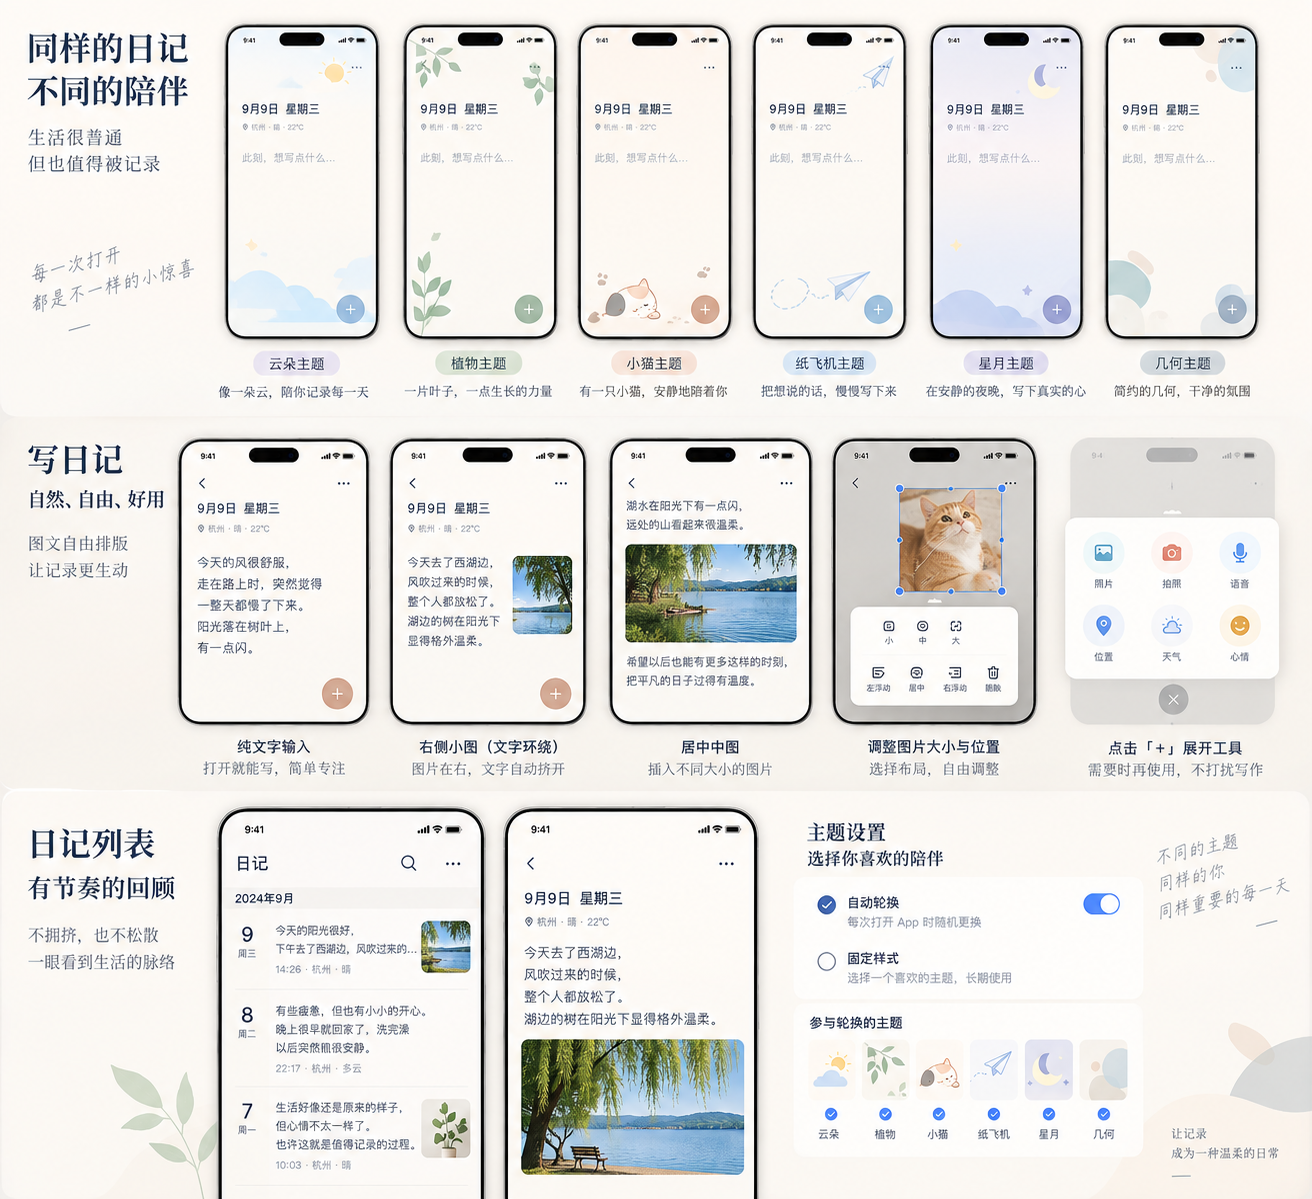
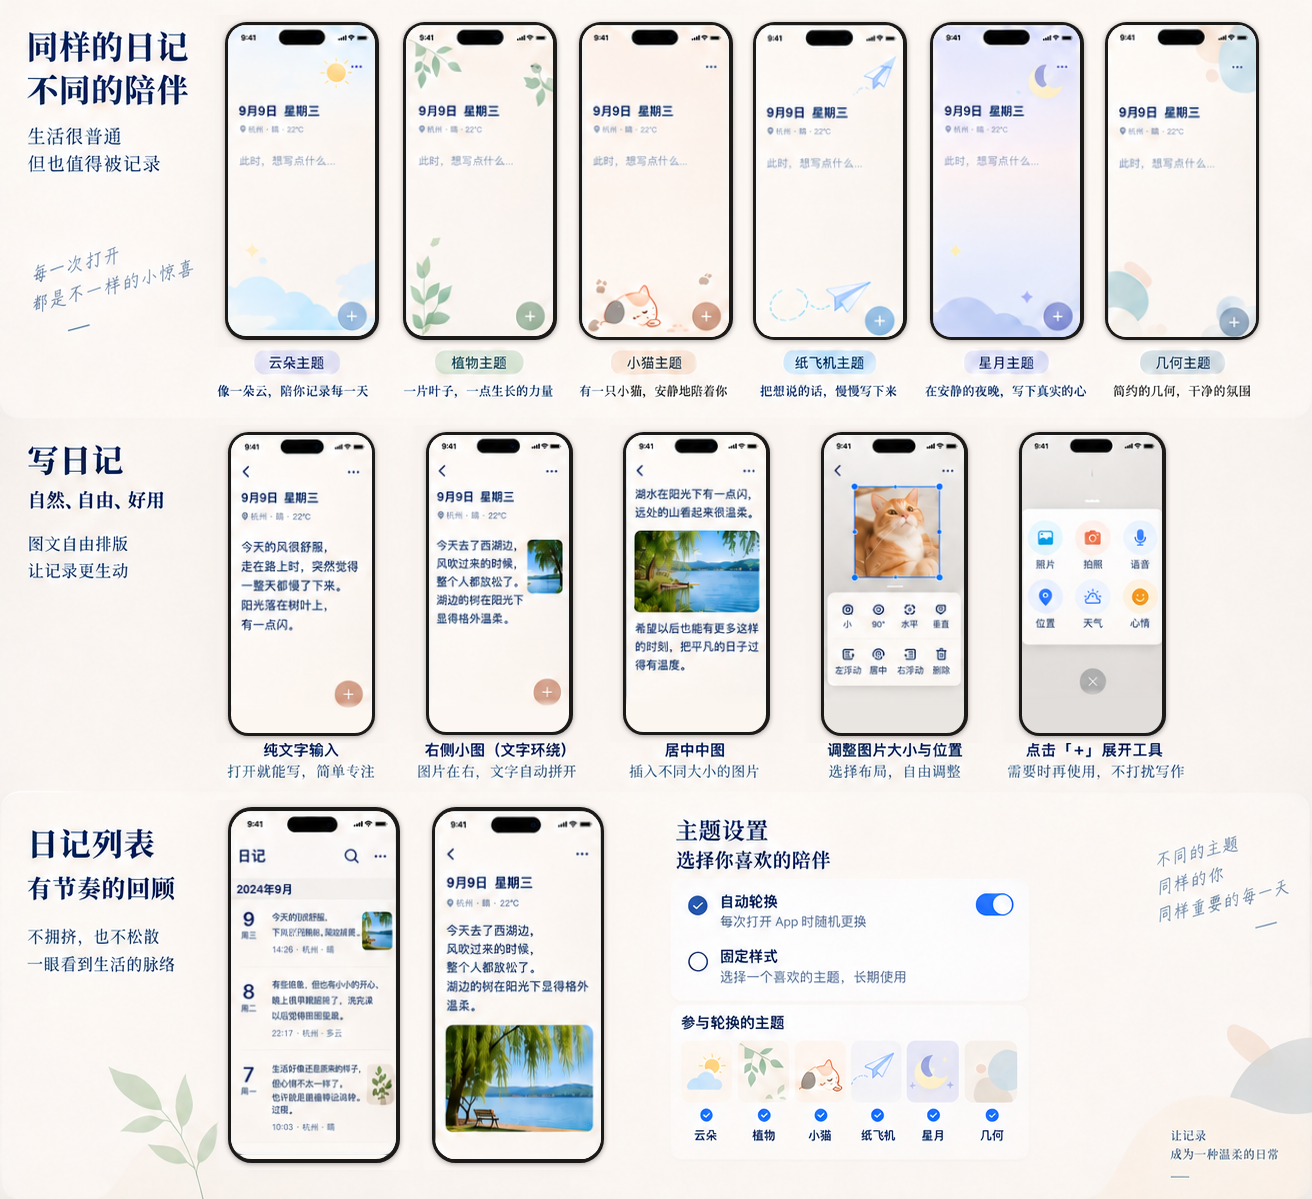
fix: normalize Gentle Diary phone proportions

diff --git a/index.html b/index.html
@@ -47,7 +47,7 @@
             <p>用 Vue 3 和 Capacitor 做的本地优先日记应用。</p>
             <div class="project-links">
               <a href="https://github.com/zengxhzz/gentle-diary" target="_blank" rel="noopener">查看源码 ↗</a>
-              <a href="https://github.com/zengxhzz/gentle-diary/blob/main/%E8%AE%BE%E8%AE%A1%E5%9B%BE.png" target="_blank" rel="noopener">完整设计图 ↗</a>
+              <a href="assets/gentle-diary-design.png" target="_blank" rel="noopener">完整设计图 ↗</a>
             </div>
             <div class="gallery-nav" role="group" aria-label="作品图集">
               <button type="button" data-plate="0" aria-controls="work-gallery" aria-pressed="true">项目概览</button>
@@ -63,11 +63,11 @@
                 <figcaption><strong>项目概览</strong><span>Gentle Diary · 界面设计稿</span></figcaption>
               </figure>
               <figure class="plate plate-writing">
-                <div class="plate-image"><img src="assets/gentle-diary-design.png" alt="Gentle Diary 设计稿中，带有图片和格式工具的写作界面" width="1312" height="1199" fetchpriority="low" decoding="async"></div>
+                <div class="plate-image"><div class="plate-detail"><img src="assets/gentle-diary-design.png" alt="Gentle Diary 设计稿中，带有图片和格式工具的五个写作界面" width="1312" height="1199" fetchpriority="low" decoding="async"></div></div>
                 <figcaption><strong>写作界面</strong><span>草稿编辑、图片排版与工具入口</span></figcaption>
               </figure>
               <figure class="plate plate-themes">
-                <div class="plate-image"><img src="assets/gentle-diary-design.png" alt="Gentle Diary 设计稿中的六个主题样式" width="1312" height="1199" fetchpriority="low" decoding="async"></div>
+                <div class="plate-image"><div class="plate-detail"><img src="assets/gentle-diary-design.png" alt="Gentle Diary 设计稿中的六个主题样式" width="1312" height="1199" fetchpriority="low" decoding="async"></div></div>
                 <figcaption><strong>主题设计</strong><span>同一个写作界面的不同主题</span></figcaption>
               </figure>
             </div>

diff --git a/assets/site.css b/assets/site.css
@@ -80,8 +80,11 @@ main section[id] { scroll-margin-top: var(--nav-height); }
 .plate-image { position: relative; overflow: hidden; height: min(48svh, 540px); border: 1px solid #26292430; background: #e4dfd3; }
 .plate-image img { display: block; width: 100%; height: 100%; object-fit: cover; }
 .plate-overview img { object-position: center 24%; }
-.plate-writing img { object-position: center 61%; transform: scale(1.49); transform-origin: 53% 62%; }
-.plate-themes img { object-position: center top; transform: scale(1.23); transform-origin: 51% top; }
+.plate-writing .plate-image, .plate-themes .plate-image { display: grid; align-items: center; background: #faf5f0; }
+.plate-detail { position: relative; width: 100%; aspect-ratio: var(--detail-ratio); overflow: hidden; }
+.plate-detail img { position: absolute; left: var(--detail-left); top: var(--detail-top); width: var(--detail-width); height: auto; }
+.plate-writing { --detail-ratio: 982 / 369; --detail-left: -21.08%; --detail-top: -112.47%; --detail-width: 133.60%; }
+.plate-themes { --detail-ratio: 1086 / 393; --detail-left: -19.52%; --detail-top: -3.05%; --detail-width: 120.81%; }
 .plate figcaption { display: flex; justify-content: space-between; align-items: baseline; gap: 7px 14px; padding-top: 10px; font-size: 13px; }
 .plate figcaption span { color: #535650; }
 .headline h1 span { transform: translate3d(var(--line-x, 0px),0,0); }
